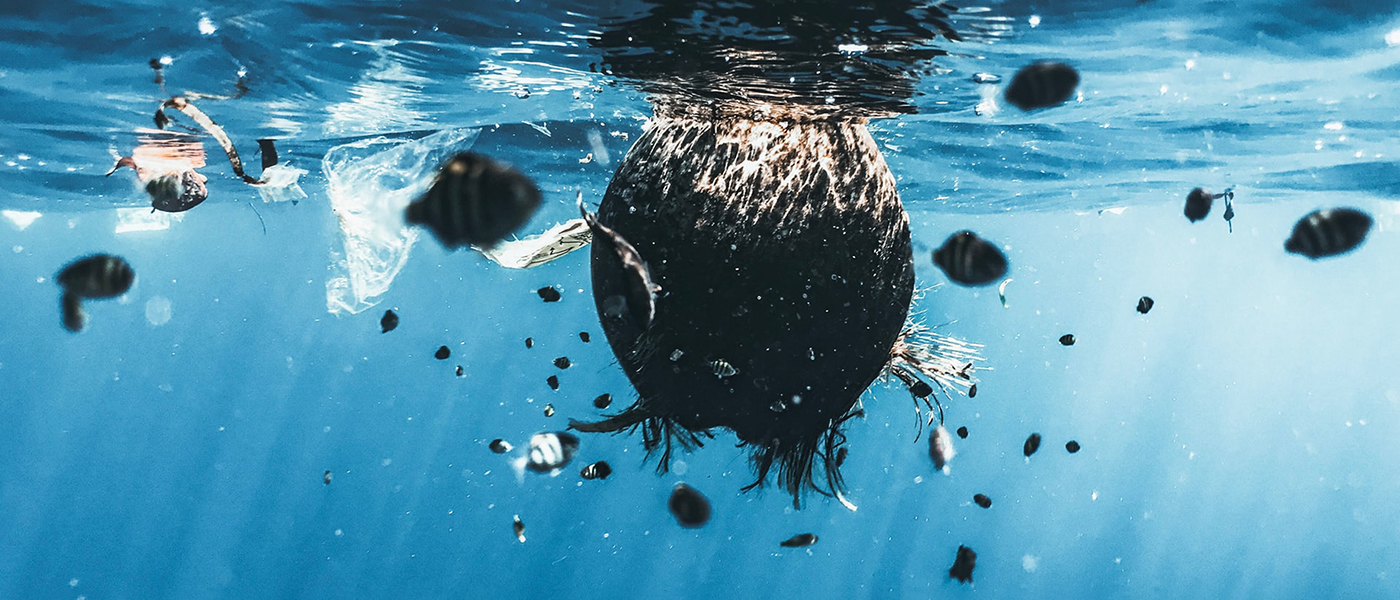
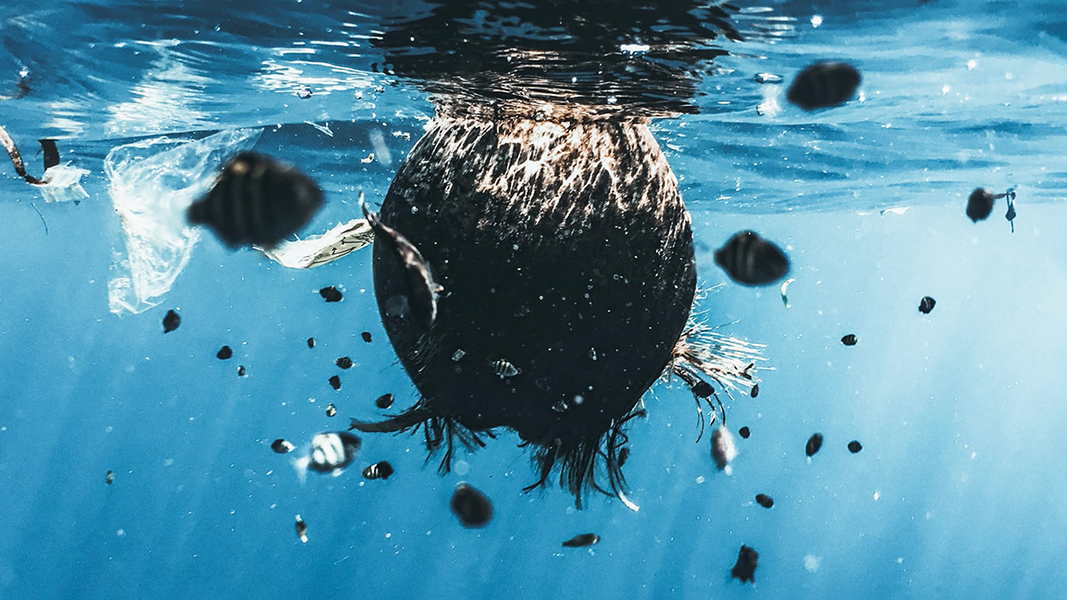
carousel image test

diff --git a/index.html b/index.html
@@ -62,7 +62,7 @@
   </ol>
   <div class="carousel-inner">
     <div class="carousel-item active">
-      <img class="d-block w-100 img-fluid" src="../Team6.5_Shore/image/carousel1copy.jpg" alt="First slide">
+      <img class="d-block w-100 img-fluid" src="../Team6.5_Shore/image/carouseltest.jpg" alt="First slide">
 	  <div class="carousel-caption d-none d-md-block carouseltext">
     <h5>Together we create a more sustainable environment.</h5>
     <p>Take action now!</p>
